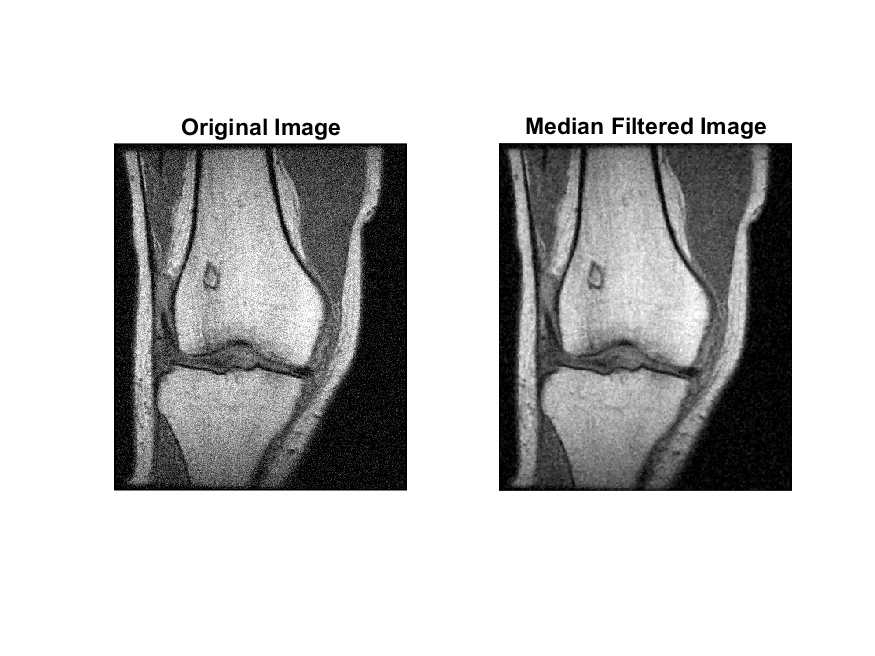
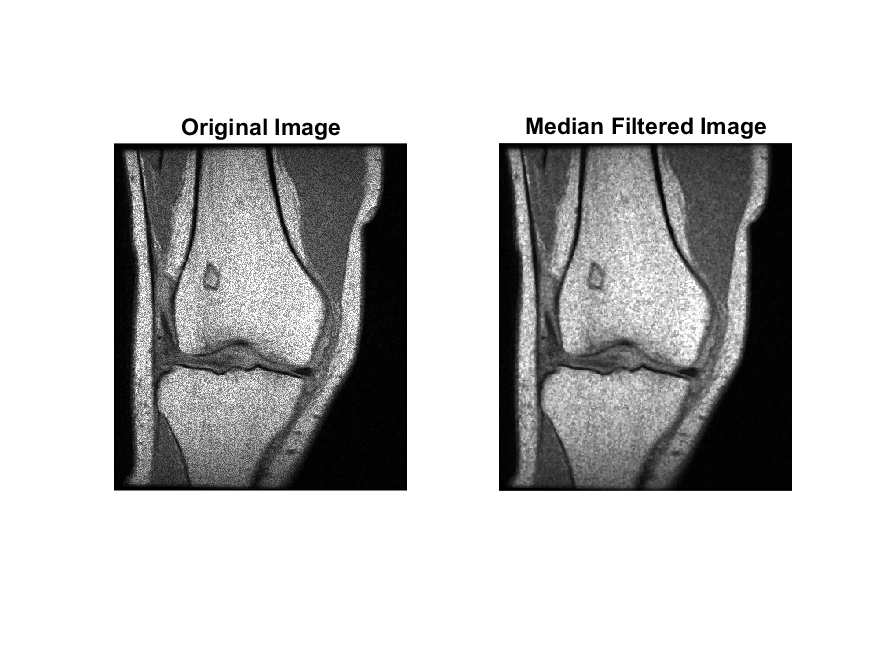
IRLSF Added with it's Output

Changed region(s): [[0.1234, 0.2134, 0.4629, 0.7622], [0.5863, 0.2134, 0.864, 0.7317], [0.864, 0.2439, 0.8949, 0.2744]]

diff --git a/code/IRLSFilter.m b/code/IRLSFilter.m
@@ -1,0 +1,71 @@
+I = imread('D:\MATLAB PROJECTS\data\sample_data.jpg');
+%imshow(I);
+imageSize = size(I);
+refImage = rgb2gray(I);
+imageRows = imageSize(1);
+imageCols = imageSize(2);
+F = 10; % number of FRAMES %
+M = 0.00; dM = 0.01;   %once make it constant & incresase V from 0.00 to 0.1%
+V = 0.00; dV = 0.001;
+N = imageRows + imageCols;
+
+%adding noise
+grayImage = imnoise(refImage,'gaussian',M,V);
+
+%{ 
+    Creating multiple gray image with different amount of noise 
+    to produce F Frames 
+%}
+grayImageFrames = uint8(zeros(F,imageRows, imageCols));
+
+inititalMeanImage = (zeros(imageRows, imageCols));
+for index=1:F
+    
+    %adding noise
+    grayImage = imnoise(refImage,'gaussian',M,V);
+    inititalMeanImage = inititalMeanImage + double(grayImage);
+    M= M + dM;
+    V= V + dV;
+    grayImageFrames(index,1:imageRows,1:imageCols) = grayImage;
+end
+
+inititalMeanImage = inititalMeanImage./F;
+inititalMeanImage = uint8(inititalMeanImage);
+
+for index=1:F
+    %plotting original gray image with padding
+    grayImage = squeeze(grayImageFrames(index,:,:));
+    subplot(3,4,index)
+    imshow(grayImage)
+    title(['Image Frame ',num2str(index),' '])
+    %title('Image Frame %d', index)
+end
+
+%plot Initial Mean Image
+subplot(3,4,index+1)
+imshow(inititalMeanImage)
+title('Initial Mean Image ')
+
+%calculate PSNR
+[peaksnr, snr] = psnr(inititalMeanImage, refImage);
+fprintf('\nThe Peak-SNR value of Initial Mean Image: %0.4f', peaksnr);
+
+%calculate SSIM
+[ssimval,ssimmap] = ssim(inititalMeanImage, refImage);
+fprintf('\nSSIM Value of Initial Mean Image: %f', ssimval);
+
+saveas(gcf,'D:\MATLAB PROJECTS\output\IRLSF-result.png')
+
+iMeanImage = inititalMeanImage;
+yIFrames = uint8(zeros(F,imageRows, imageCols));
+taoN = (ones(1,N));
+bFHelper = (inv((taoN.')*taoN))*(taoN.');
+
+for index=1:F
+    %extract original gray image frame
+    If = squeeze(grayImageFrames(index,:,:));
+    yI =  If - iMeanImage;
+    yIFrames(index,1:imageRows,1:imageCols) = yI;
+    Bf = bFHelper*yI;
+end
+

diff --git a/code/weighted_avg_filter_with_zero_padding_with_3x3_mask.m b/code/weighted_avg_filter_with_zero_padding_with_3x3_mask.m
@@ -31,13 +31,13 @@ for i=3:oldImageSize(1)+2
     k = k+1;
 end
 
-[peaksnr, snr] = psnr(filteredImage, refImage);
+[peaksnr, snr] = psnr(filteredImage, grayImage);
   
 fprintf('\nThe Peak-SNR value is %0.4f', peaksnr);
 
-[ssimval,ssimmap] = ssim(filteredImage, refImage);
+[ssimval,ssimmap] = ssim(filteredImage, grayImage);
 
-fprintf('\nSSIM Value: %f', ssimval)
+fprintf('\nSSIM Value: %f', ssimval);
 
 %plotting the filtered image
 subplot(1,2,2)

diff --git a/code/preprocess.m b/code/preprocess.m
@@ -6,7 +6,10 @@ size(I);
 refImage = rgb2gray(I);
 oldImageSize = size(refImage);
 
+M = 0.1;  %once make it constant & incresase V from 0.01 to 0.1%
+V = 0.00;  
+
 %adding noise
-grayImage = imnoise(refImage,'gaussian');
+grayImage = imnoise(refImage,'speckle');
 
 end

diff --git a/code/avg_filter_with_zero_padding_with_3x3_mask.m b/code/avg_filter_with_zero_padding_with_3x3_mask.m
@@ -37,7 +37,7 @@ fprintf('\nThe Peak-SNR value is %0.4f', peaksnr);
 
 [ssimval,ssimmap] = ssim(filteredImage, refImage);
 
-fprintf('\nSSIM Value: %f', ssimval)
+fprintf('\nSSIM Value: %f', ssimval);
 
 %plotting the filtered image
 subplot(1,2,2)

diff --git a/code/max_filter_with_zero_padding_with_3x3_matrix.m b/code/max_filter_with_zero_padding_with_3x3_matrix.m
@@ -32,7 +32,7 @@ fprintf('\nThe Peak-SNR value is %0.4f', peaksnr);
 
 [ssimval,ssimmap] = ssim(filteredImage, refImage);
 
-fprintf('\nSSIM Value: %f', ssimval)
+fprintf('\nSSIM Value: %f', ssimval);
 
 %plotting the filtered image
 subplot(1,2,2)

diff --git a/code/median_filter_with_zero_padding_with_3x3_matrix.m b/code/median_filter_with_zero_padding_with_3x3_matrix.m
@@ -31,7 +31,7 @@ fprintf('\nThe Peak-SNR value is %0.4f', peaksnr);
 
 [ssimval,ssimmap] = ssim(filteredImage, refImage);
 
-fprintf('\nSSIM Value: %f', ssimval)
+fprintf('\nSSIM Value: %f', ssimval);
 
 %plotting the filtered image
 subplot(1,2,2)

diff --git a/code/min_filter_with_zero_padding_with_3x3_matrix.m b/code/min_filter_with_zero_padding_with_3x3_matrix.m
@@ -31,7 +31,7 @@ fprintf('\nThe Peak-SNR value is %0.4f', peaksnr);
 
 [ssimval,ssimmap] = ssim(filteredImage, refImage);
 
-fprintf('\nSSIM Value: %f', ssimval)
+fprintf('\nSSIM Value: %f', ssimval);
 
 %plotting the filtered image
 subplot(1,2,2)
